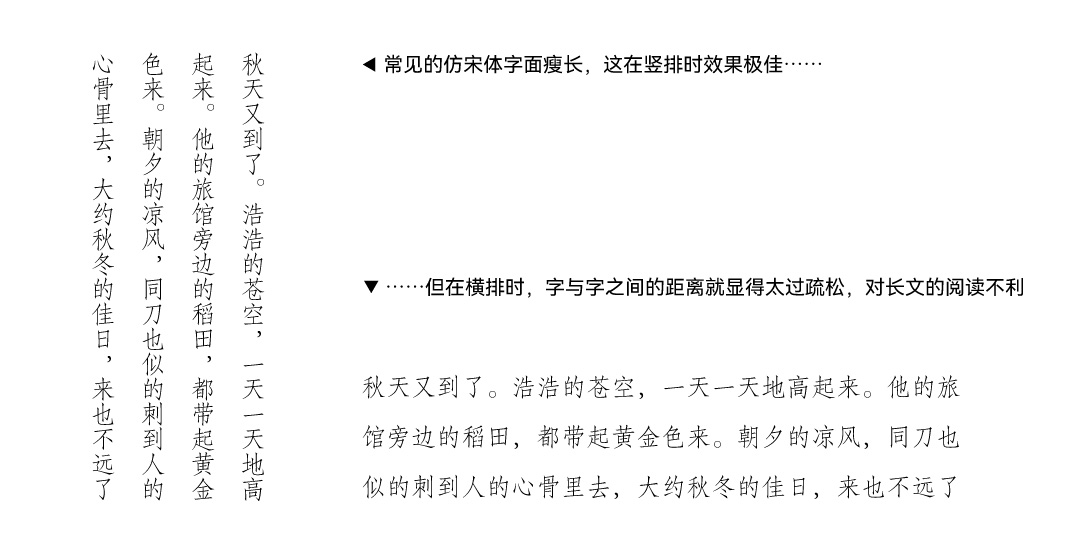
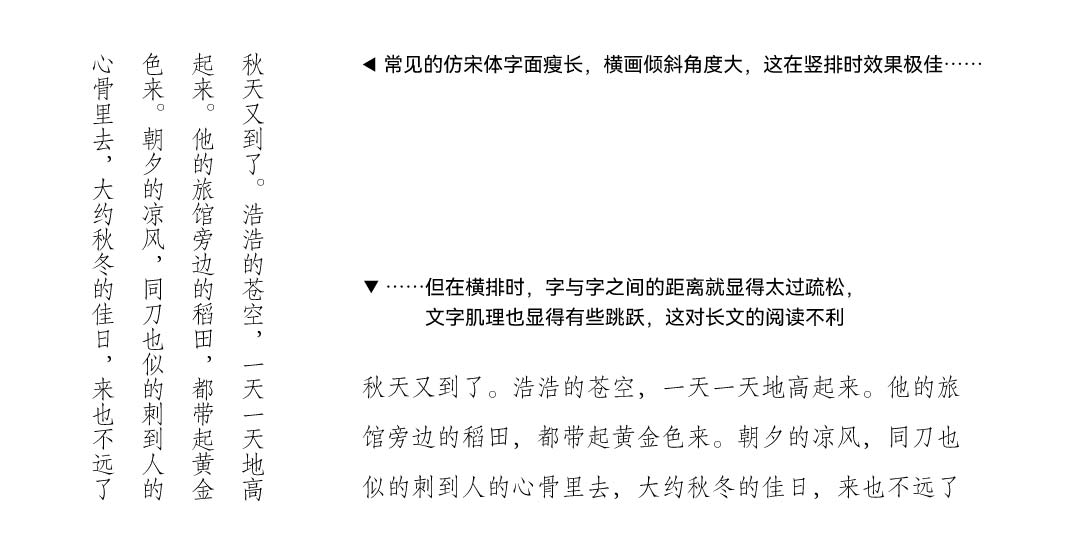
微调内容。更新内容。更新图片

Changed region(s): [[0.55, 0.0911, 0.8861, 0.1518], [0.3972, 0.5464, 0.7944, 0.6071], [0.7944, 0.4857, 0.9472, 0.5464]]

diff --git a/articles/Z1.html b/articles/Z1.html
@@ -96,7 +96,7 @@
                     <div class="metaInfo-Seperator"></div>
                     <div id="time">
                         <ul>
-                            <li><time pubdate datetime="2023-01-25"><span class="number">2023</span>年<span class="number">1</span>月<span class="number">25</span>日</time>&emsp;发布</li>
+                            <li><time pubdate datetime="2023-02-19"><span class="number">2023</span>年<span class="number">2</span>月<span class="number">19</span>日</time>&emsp;发布</li>
                         </ul>
                     </div>
                     <div class="metaInfo-Seperator"></div>
@@ -137,7 +137,6 @@
                     <p>在本书的中文版的设计中，我参考英文原版的做法，尽量保留书信原有格式，同时又针对文本结构的特点，融入个人的独创性想法，完成了包括封面在内的整本书的设计。</p>
                     <p>下面和大家分享一下本书正文的排版设计思路。</p>
                     <h2 id='宏观排版设计'>一、宏观排版设计</h2>
-                    <p>在最初的方案中，我尝试了四栏的布局：正文占满四栏，注释占右侧三栏，信件的祝福语向右对齐到第三、四栏的边界。</p>
                     <div class="TuTi">初版方案效果示意</div>
                     <figure>
                         <img alt="图像" src="../images/Z1/图示_最初方案1.jpg">
@@ -145,7 +144,8 @@
                         <img alt="图像" src="../images/Z1/图示_最初方案3.jpg">
                         <img alt="图像" src="../images/Z1/图示_最初方案4.jpg">
                     </figure>
-                    <div class="TuZhu">图片仅用于展示排版设计，其中的文字内容与最终成书不同。所有内容请以最终成书为准。</div>
+                    <div class="TuZhu">（图片仅用于展示排版设计，其中的文字内容与最终成书不同。所有内容请以最终成书为准。）</div>
+                    <p>在最初的方案中，我尝试了四栏的布局：正文占满四栏，注释占右侧三栏，信件的祝福语向右对齐到第三、四栏的边界。</p>
                     <div class="TuTi">初版方案网格结构示意</div>
                     <figure>
                         <img alt="图像" src="../images/Z1/图示_最初方案1-辅助线.jpg">
@@ -153,8 +153,7 @@
                     </figure>
                     <div class="TuZhu">红线为四栏分隔线，深蓝线为段首缩进线，绿线为四个注释字与三个正文字的对齐线，浅灰线为正文的横向文字网格，横向浅蓝色区域为正文的纵向文字网格。（图片仅用于展示排版设计，其中的文字内容与最终成书不同。所有内容请以最终成书为准。）</div>
                     <p>其中，正文字号为<span class="Latin" lang="en">10</span>点，一行<span class="Latin" lang="en">28</span>个字（每栏<span class="Latin" lang="en">7</span>个字），注释字号为<span class="Latin" lang="en">7.5</span>点，一行恰好也是<span class="Latin" lang="en">28</span>个字。（正文和注释的字号比例为<span class="Latin" lang="en">4:3</span>，二者所占栏数之比也是<span class="Latin" lang="en">4:3</span>。）注释段首缩进<span class="Latin" lang="en">4</span>个字，宽度正好等于<span class="Latin" lang="en">3</span>个正文字。注释内的引文继续缩进<span class="Latin" lang="en">4</span>个字。</p>
-                    <p>在与编辑讨论之后，得到反馈意见，称希望能减少页面的空白，以便节省版面。于是我做出相应的调整，反复修改几轮后确定了最终设计。</p>
-                    <p>在最终方案中，正文一行增加到<span class="Latin" lang="en">29</span>个字，相当于在原有的四栏布局上向外扩展<span class="Latin" lang="en">1</span>个字。同时，注释一行增加到<span class="Latin" lang="en">32</span>个字，相当于在原有的三栏上向外扩展<span class="Latin" lang="en">4</span>个字（相当于正文<span class="Latin" lang="en">3</span>个字），注释的段首缩进改为常规的<span class="Latin" lang="en">2</span>个字。版心和边距也做了调整。原书页码与版心之间空<span class="Latin" lang="en">1</span>个字。</p>
+                    <p>在与编辑讨论之后，得到反馈意见称，希望能减少页面的空白，以便节省版面。于是我做出相应的调整，反复修改几轮后确定了最终设计。</p>
                     <div class="TuTi">最终方案效果示意</div>
                     <figure>
                         <img alt="图像" src="../images/Z1/图示_最终方案1.jpg">
@@ -162,7 +161,8 @@
                         <img alt="图像" src="../images/Z1/图示_最终方案3.jpg">
                         <img alt="图像" src="../images/Z1/图示_最终方案4.jpg">
                     </figure>
-                    <div class="TuZhu">图片仅用于展示排版设计，其中的文字内容与最终成书不同。所有内容请以最终成书为准。</div>
+                    <div class="TuZhu">（图片仅用于展示排版设计，其中的文字内容与最终成书不同。所有内容请以最终成书为准。）</div>
+                    <p>在最终方案中，正文一行增加到<span class="Latin" lang="en">29</span>个字，相当于在原有的四栏布局上向外扩展<span class="Latin" lang="en">1</span>个字。同时，注释一行增加到<span class="Latin" lang="en">32</span>个字，相当于在原有的三栏上向外扩展<span class="Latin" lang="en">4</span>个字（相当于正文<span class="Latin" lang="en">3</span>个字），注释的段首缩进改为常规的<span class="Latin" lang="en">2</span>个字。版心和边距也做了调整。原书页码与版心之间空<span class="Latin" lang="en">1</span>个字。</p>
                     <div class="TuTi">最终方案网格结构示意</div>
                     <figure>
                         <img alt="图像" src="../images/Z1/图示_最终方案1-辅助线.jpg">
@@ -181,19 +181,19 @@
                     <figure>
                         <img alt="图像" src="../images/Z1/图示_思源宋体SourceSerifPro.jpg">
                     </figure>
-                    <p>书籍的第二字体选用了方正刻本仿宋，它的字形与灰度和思源宋体的搭配较好。并且，这个字体不像常见的仿宋体那样字面偏瘦长，这有助于在不额外调整字距的情况下保持良好的字距，有利于流畅阅读。</p>
+                    <p>书籍的第二字体选用了方正刻本仿宋，它的字形与灰度和思源宋体的搭配较好。并且，这个字体的横画倾斜角度比常见的仿宋体小，在横排时文字肌理更稳定；它的字面也不像常见的仿宋体那样偏瘦长，在横排时这有助于在不做额外调整的情况下保持良好的字距。以上两点使它更有利于流畅阅读。</p>
                     <figure>
                         <img alt="图像" src="../images/Z1/图示_方正刻本仿宋.jpg">
                     </figure>
                     <figure>
                         <img alt="图像" src="../images/Z1/图示_仿宋横排竖排.jpg">
                     </figure>
-                    <p>文本的标点间距设置得较为宽松，在一些通常采用密排的场合，仍然会稍稍增加字符间距。</p>
+                    <p>书籍文本的标点间距设置得较为宽松。在一些通常采用密排的场合，仍然会稍稍增加字符间距。</p>
                     <figure>
                         <img alt="图像" src="../images/Z1/图示_标点间距调整.jpg">
                     </figure>
                     <!-- <p>文本的标点避头尾采用较为宽松的策略，这样可以避免一行内的字距被过分地拉开。</p> -->
-                    <p>正文中的注释上标经过专门调整，使其与后方文字的距离稍稍大于与前方文字（即被注释内容）的距离。</p>
+                    <p>书籍正文中的注释上标经过专门调整，使其与后方文字的距离稍稍大于与前方文字（即被注释内容）的距离。</p>
                     <figure>
                         <img alt="图像" src="../images/Z1/图示_注释上标调整.jpg">
                     </figure>

diff --git a/articles/B1.html b/articles/B1.html
@@ -200,13 +200,13 @@
                     <h3 id='“microtypography/macrotypography”的翻译'><span class="Latin">2.</span>“<span class="Latin" lang="en">microtypography / macrotypography</span>”的翻译</h3>
                     <p>“<span class="Latin noAutoHyphen" lang="en">microtypography</span>”和“<span class="Latin noAutoHyphen" lang="en">macrotypography</span>”也可写作“<span class="Latin noAutoHyphen" lang="en">micro-typography</span>”和“<span class="Latin noAutoHyphen" lang="en">macro-typography</span>”。<sup class="sideNoteMark">※&#65279;※</sup><span class="sideNote"><span class="tabulation">※&#65279;※&#9;</span>“<span class="Latin noAutoHyphen" lang="en">micro-typography</span>”的另一个说法是“<span class="Latin noAutoHyphen" lang="en">detail-typography</span>”。</span>从字面上非常容易看出，这是由表示“微观”（<span class="Latin noAutoHyphen" lang="en">micro-</span>）“宏观”（<span class="Latin noAutoHyphen" lang="en">macro-</span>）的前缀与“<span class="Latin" lang="en">typography</span>”组合而成的词。同之前一样，只要将“微观”“宏观”与“<span class="Latin" lang="en">typography</span>”的译名组合起来就能完成这两个词的翻译。<sup class="sideNoteMark">⊙&#65279;⊙</sup><span class="sideNote"><span class="tabulation">⊙&#65279;⊙&#9;</span>如果写的是“<span class="Latin" lang="en">detail-typography</span>”，则可以将“<span class="Latin" lang="en">detail</span>”译作“细部”等。</span></p>
                     <p>不过需要注意的是，与<span class="Latin" lang="en">typography</span>有狭义广义的区分不同，<span class="Latin" lang="en">micro-typography</span>和<span class="Latin" lang="en">macro-typography</span>各自并没有狭义广义的区分。这是因为“<span class="Latin" lang="en">micro-</span>”和“<span class="Latin" lang="en">macro-</span>”这两个前缀已经在很大程度上限定了概念所指的范围。</p>
-                    <p>关于这两个词的含义，<span class="Latin noAutoHyphen" lang="en">Jost Hochuli</span>有非常好的解释：“<q>宏观<span class="Latin" lang="en">typography</span>，也就是排版的布局，涉及的是印刷品的开本、文字和插图的大小和位置、大小标题和图注的层次安排。而细部<span class="Latin" lang="en">typography</span>涉及的是各个单独的组成部分，比如字母、字间距、单词、词间距、行和行距、分栏。这些组成部分是平面设计师或版式设计师容易忽略的，因为它们似乎不属于通常所认为的「创意」领域。</q><sup class="sideNoteMark">＋&#65279;＋&#65279;＋</sup><span class="sideNote"><span class="tabulation">＋&#65279;＋&#65279;＋&#9;</span>但其实毫无疑问它们属于「创意」的领域，只是不显山露水。另外，从这段解释中我们可以发现“宏观<span class="Latin" lang="en">typography</span>”的含义与“版式设计<span class="FenGeHao">／</span>布局设计”（<span class="Latin" lang="en">layout design</span>）类似。</span>”<sup class='footnoteMark' id='footnote-mark-13'><a href='#footnote-number-13'>13</a></sup></p>
+                    <p>关于这两个词的含义，<span class="Latin noAutoHyphen" lang="en">Jost Hochuli</span>有非常好的解释：“<q>宏观<span class="Latin" lang="en">typography</span>，也就是排版的布局，涉及的是印刷品的开本、文字和插图的大小和位置、大小标题和图注的层次安排。而细部<span class="Latin" lang="en">typography</span>涉及的是各个单独的组成部分，比如字母、字间距、单词、词间距、行和行距、分栏。这些组成部分是平面设计师或版式设计师容易忽略的，因为它们似乎不属于通常所认为的「创意」领域。</q><sup class="sideNoteMark">＋&#65279;＋&#65279;＋</sup><span class="sideNote"><span class="tabulation">＋&#65279;＋&#65279;＋&#9;</span>但其实毫无疑问它们属于“创意”的领域，只是不显山露水。另外，从这段解释中我们可以发现“宏观<span class="Latin" lang="en">typography</span>”的含义与“版式设计<span class="FenGeHao">／</span>布局设计”（<span class="Latin" lang="en">layout design</span>）类似。</span>”<sup class='footnoteMark' id='footnote-mark-13'><a href='#footnote-number-13'>13</a></sup></p>
                     <p>由此可见，<span class="Latin" lang="en">microtypography</span>和<span class="Latin" lang="en">macrotypography</span>均不涉及广义上的<span class="Latin" lang="en">typography</span>，而是在较为狭义的<span class="Latin" lang="en">typography</span>上再细分出微观和宏观的层次。所以，在翻译这两个概念时，最好避免将“微观”“宏观”与广义上的<span class="Latin" lang="en">typography</span>的译名组合在一起，否则可能会导致歧义。</p>
                     <p>按照现今最常用的“<span class="Latin" lang="en">typography</span>”的译名，可以将“<span class="Latin" lang="en">microtypography / macrotypography</span>”译作“微观字体排印<span class="FenGeHao">／</span>宏观字体排印”。</p>
                     <p>由于本网站选用“排版设计”来翻译狭义上的“<span class="Latin" lang="en">typography</span>”，故本网站对上述两个词的译法为“微观排版设计<span class="FenGeHao">／</span>宏观排版设计”。</p>
                     <h2 id='总结'>三、总结</h2>
-                    <p>英语中的“<span class="Latin" lang="en">typography</span>”一词的含义丰富，在中文里确实难以找到完美对应的词。现今对这个词的翻译往往要根据具体语境来选择较为恰当的译名，虽然基本不影响理解，但难免顾此失彼。或许，像一些语言那样对这个词直接采取音译反而是个巧妙的方法，但这不符合中文的语言习惯。</p>
-                    <p>本文简要分析了“<span class="Latin" lang="en">typography</span>”这个词的含义，以及现今中文里对该词的一些译法。并提出用“排版设计”来翻译狭义上的“<span class="Latin" lang="en">typography</span>”。这样的对基本概念的含义和用法的探讨，无论其深浅，对于理解这一领域都是有帮助的。不过，名词辨析从来不是这个领域的重点。能够将相关的知识、理论运用到实践中，产出良好的作品，才是最终的目标。</p>
+                    <p>英语中的“<span class="Latin" lang="en">typography</span>”一词的含义丰富，在中文里确实难以找到完美对应的词。现今对这个词的翻译往往要根据具体语境来选择较为恰当的译名，虽然基本不影响理解，但难免顾此失彼。或许，像一些语言那样对这个词直接采取音译反而是个讨巧的做法，但这不符合中文的语言习惯。</p>
+                    <p>本文简要分析了“<span class="Latin" lang="en">typography</span>”这个词的含义，以及现今中文里对该词的一些译法。并提出用“排版设计”来翻译狭义上的“<span class="Latin" lang="en">typography</span>”。这种对基本概念的含义和用法的探讨，无论其深浅，对于理解它都是有帮助的。不过，名词辨析从来不是这个领域的重点。能够将相关的知识、理论运用到实践中，产出良好的作品，才是最终的目标。</p>
 
 
                     <hr>
